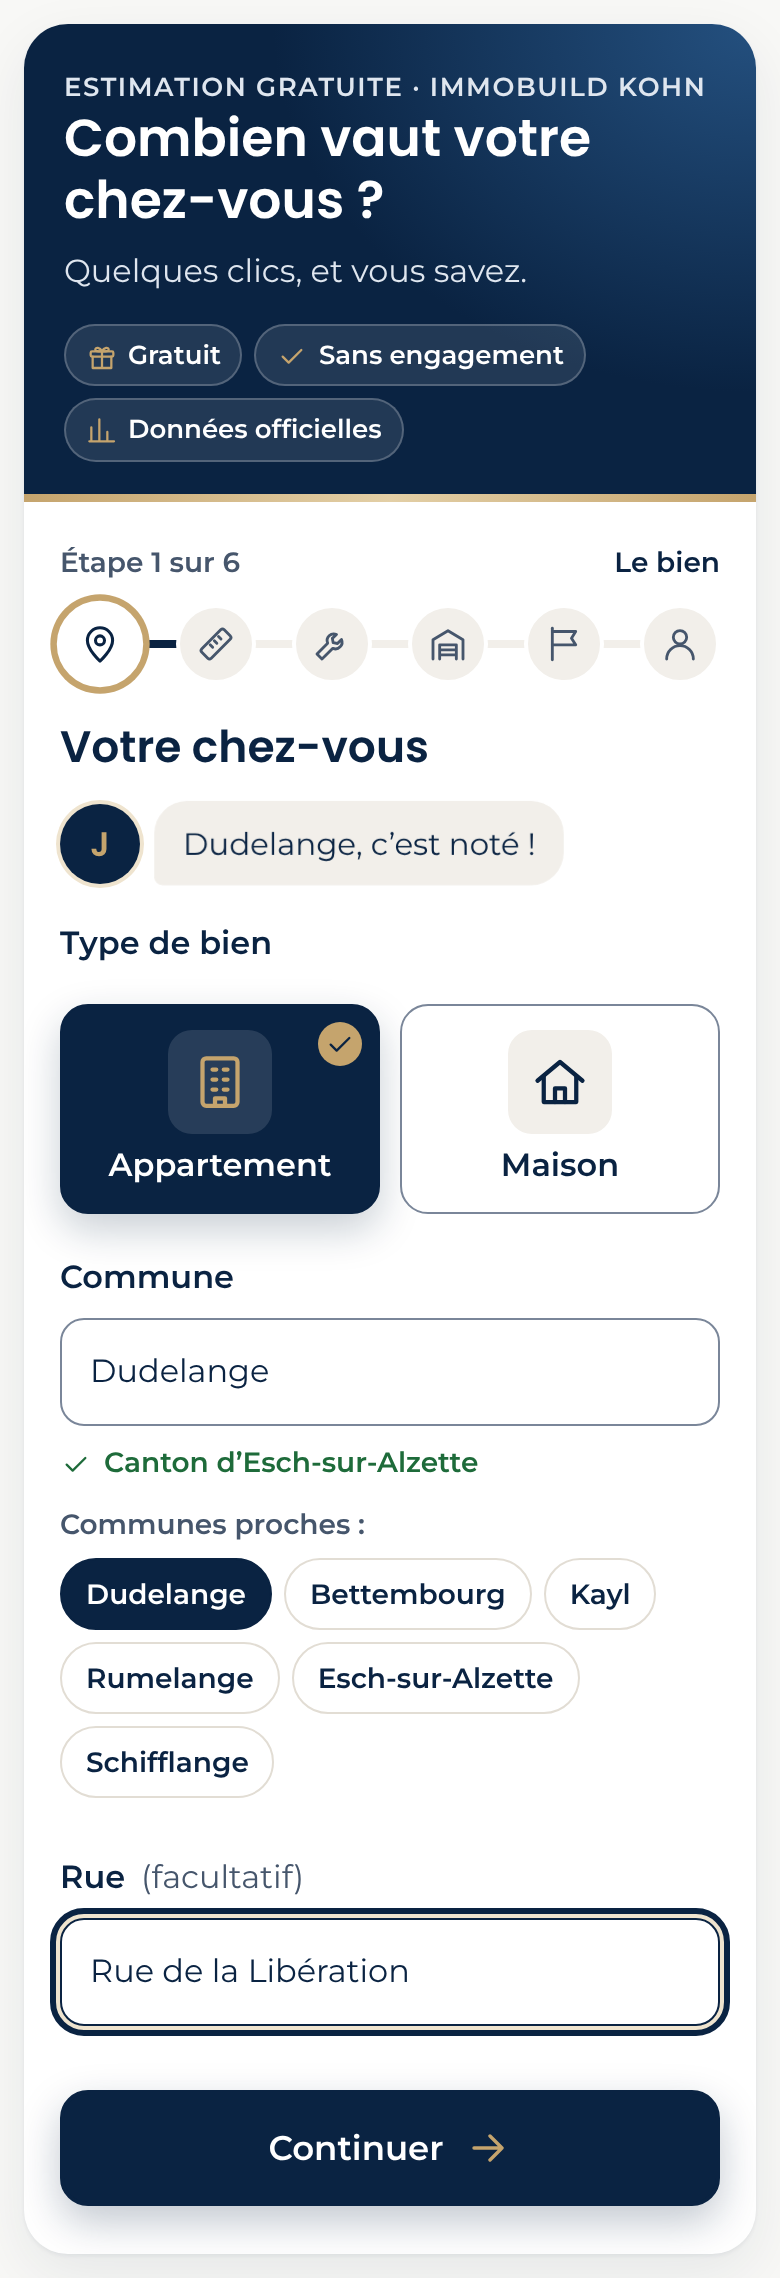
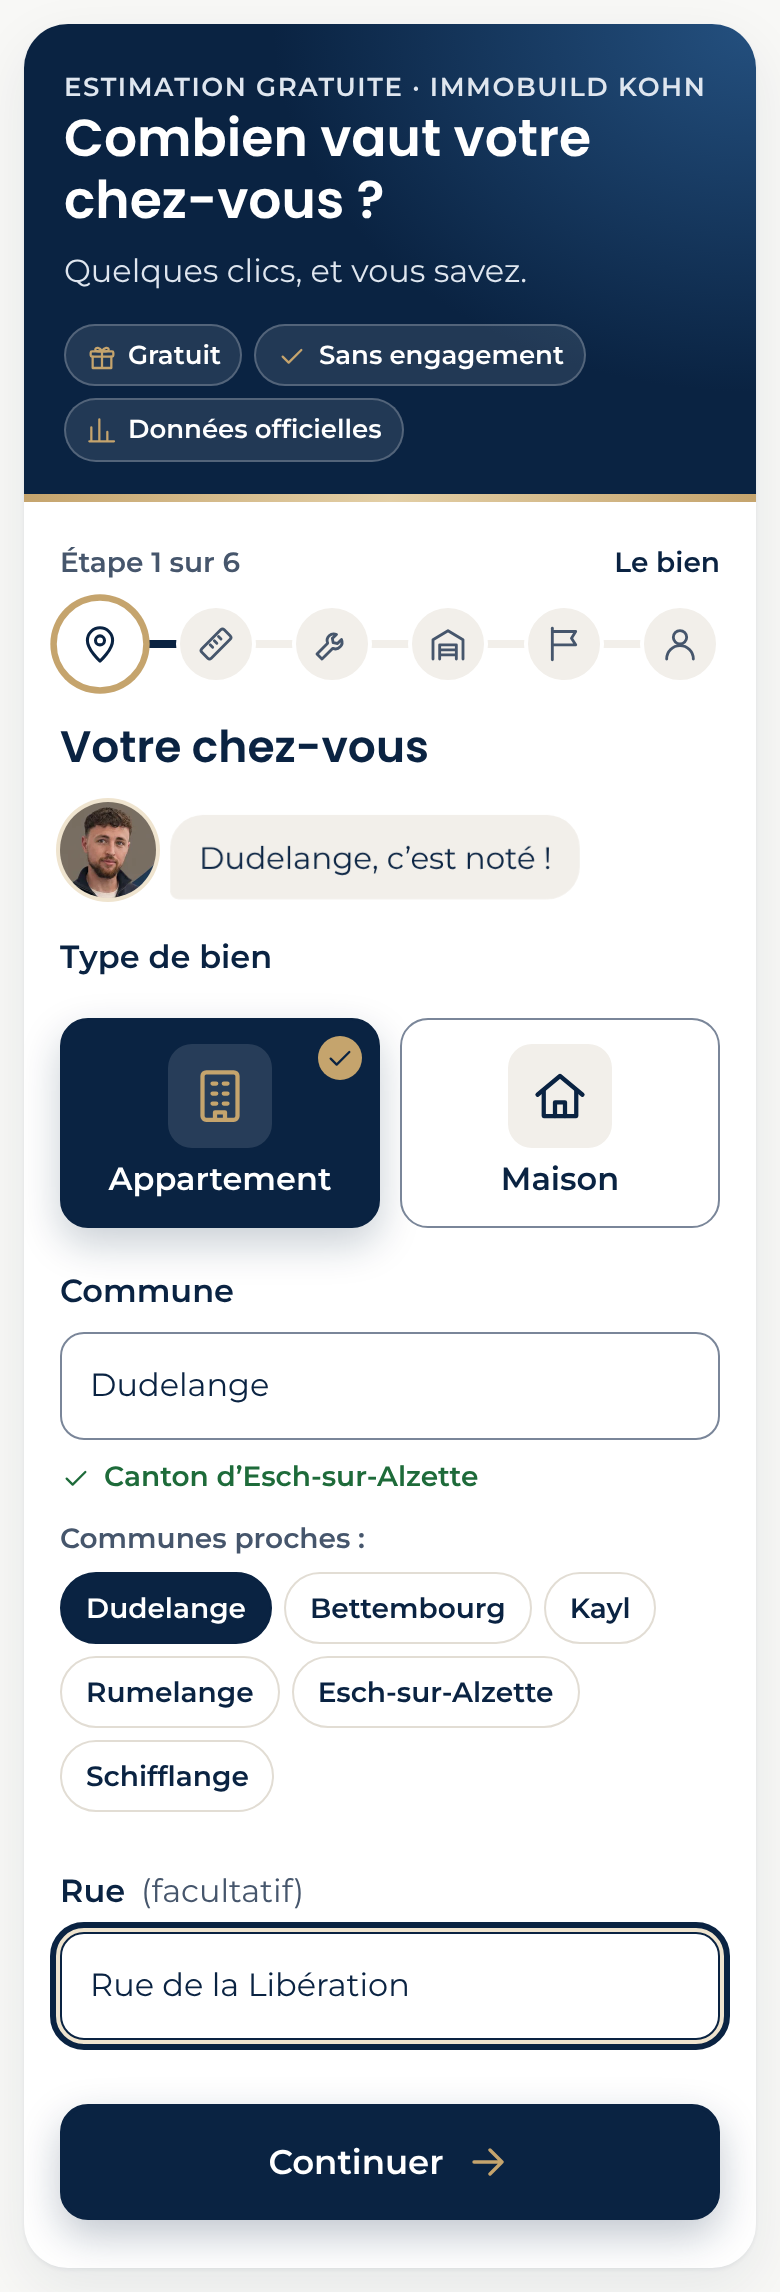
estimation-widget: photo de Jay dans la bulle et sur le résultat
- public/jay.webp : visage recadré, 192 × 192 px, 3,4 Ko
- config.json → agent.photo ; avatar de la bulle agrandi à 48 px

Claude-Session: https://claude.ai/code/session_01846hvutoHPqEEd264myZJw

diff --git a/estimation-widget/src/styles.css b/estimation-widget/src/styles.css
@@ -516,7 +516,7 @@ input[type='text']:focus, input[type='email']:focus, input[type='tel']:focus, se
 /* ---------- Bulle de Jay ---------- */
 .step-head { margin-bottom: 12px; }
 .coach { display: flex; align-items: flex-end; gap: 10px; margin: 0 0 18px; }
-.avatar-sm { width: 40px; height: 40px; font-size: 1.0625rem; box-shadow: 0 0 0 2px var(--gold-soft); }
+.avatar-sm { width: 48px; height: 48px; font-size: 1.0625rem; box-shadow: 0 0 0 2px var(--gold-soft); }
 .coach-bubble { position: relative; margin: 0; padding: 10px 14px; border-radius: 16px 16px 16px 4px; background: var(--beige); font-weight: 400; font-size: 0.9375rem; line-height: 1.4; }
 .coach-bubble.pop { animation: bubble 0.45s var(--ease); }
 @keyframes bubble { 0% { transform: scale(0.92) translateY(4px); opacity: 0.4; } 60% { transform: scale(1.03); opacity: 1; } 100% { transform: none; } }

diff --git a/estimation-widget/src/main.ts b/estimation-widget/src/main.ts
@@ -283,7 +283,7 @@ let coachText = '';
 function coachHtml(): string {
   coachText = t(state.step === 1 ? 'coach.start' : `coach.step${state.step}`);
   const name = config.agent?.name ?? '';
-  const avatar = config.agent?.photo ? `<img class="avatar avatar-sm" src="${esc(config.agent.photo)}" alt="" width="40" height="40">` : `<span class="avatar avatar-sm" aria-hidden="true">${esc(name.charAt(0))}</span>`;
+  const avatar = config.agent?.photo ? `<img class="avatar avatar-sm" src="${esc(config.agent.photo)}" alt="" width="48" height="48">` : `<span class="avatar avatar-sm" aria-hidden="true">${esc(name.charAt(0))}</span>`;
   return `<div class="coach">${avatar}<p class="coach-bubble" id="coach" aria-live="polite">${esc(coachText)}</p></div>`;
 }
 function coachSay(key: string, vars?: Record<string, string>) {
